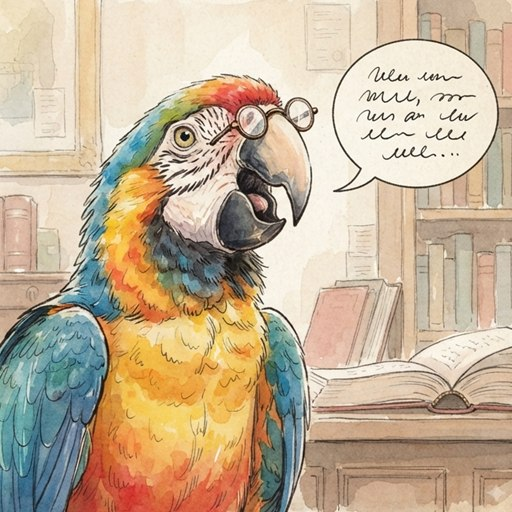
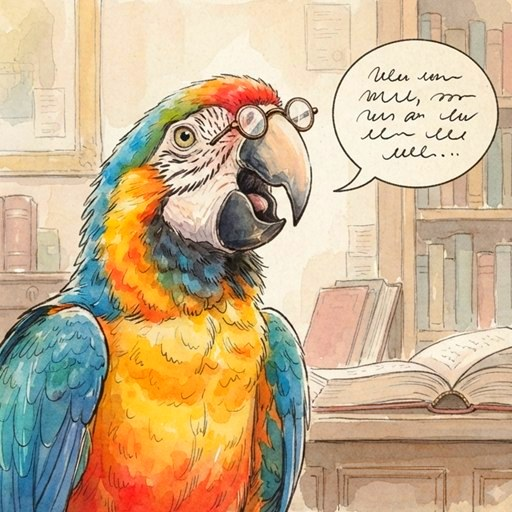
Dlazdice temat: jemne dobarvene (sytost jen mimo papir, sila 0,4)

Changed region(s): [[0.125, 0.3125, 0.5312, 1.0], [0.375, 0.1562, 0.5312, 0.2188], [0.3125, 0.2188, 0.3438, 0.25]]

diff --git a/CLAUDE.md b/CLAUDE.md
@@ -162,7 +162,8 @@ Nejnovější nahoře. Formát: **datum — název** + jednou větou co a proč.
     `.qz-endimg` s rámečkem jako dlaždice rozcestníku. Dlaždice kontinentů a režimů byly týž den
     dobarvené lokálně (`sharp`, sytost jen tam, kde barva už je — papír nežloutne; váha podle
     vzdálenosti pixelu od barvy papíru navzorkované z rohů, síla ~0,55 — takhle později
-    i `auth-hero.jpg` na obrazovce Nový profil); Evropa je nová
+    i `auth-hero.jpg` na obrazovce Nový profil a všech 10 dlaždic témat `section-*.jpg`
+    se silou 0,4); Evropa je nová
     z Gemini, přebarvením staré, protože „MUCH more saturated" v promptu dalo komiks.
   - **Past zaplacená znovu: `node -e` s regulárním výrazem v Bashi.** `\\$` v dvojitých uvozovkách
     výraz rozbilo a nahrazení hlásilo 0 nálezů. Skripty s regexy psát nástrojem Write.
